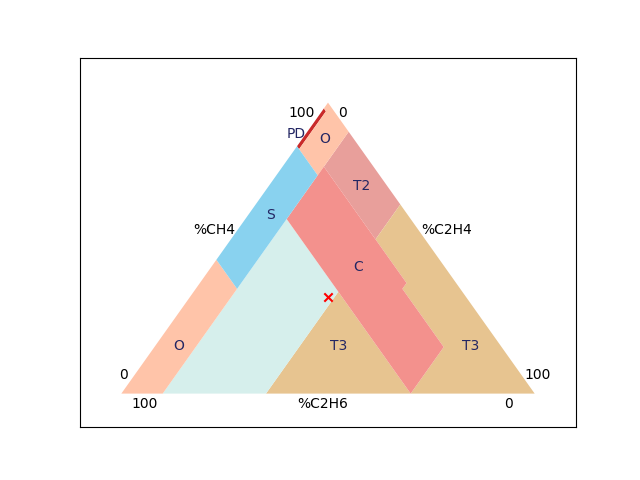
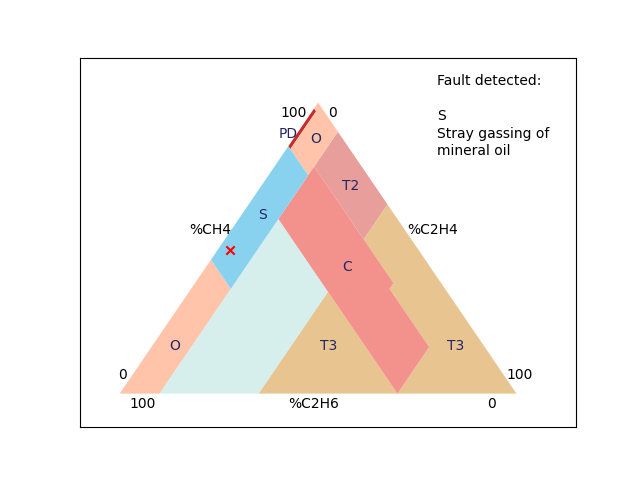
Rufaidah commit

diff --git a/website/views.py b/website/views.py
@@ -19,6 +19,7 @@ def home():
 # @views.route("/greet", methods=["POST", "GET"])
 # def greet():
 #    flash("Hi Rufaidah, great to see you!", category='info')
+#    flash("Hi Rufaidah, great to see you!", category='info')
 #    return render_template("home.html", user=current_user)
 
 
@@ -224,10 +225,63 @@ def dt1(ethylene, methane, acetylene):
     ax1.text(label13[0], label13[1], 'T1', color='#232663')
     label14 = np.array([35, 60, 1]) @ np.transpose(A)
     ax1.text(label14[0], label14[1], 'T2', color='#232663')
+    label15 = np.array([27, 106, 1]) @ np.transpose(A)
+    ax1.text(label15[0], label15[1], 'Fault detected: ', color='#000')
+    #
+    # Display fault by region
+    #
+    if x <= 2 and y >= 98:
+        label20 = np.array([33, 94, 1]) @ np.transpose(A)
+        ax1.text(label20[0], label20[1], 'PD', color='#000')
+        label21 = np.array([36, 88, 1]) @ np.transpose(A)
+        ax1.text(label21[0], label21[1], 'Partial discharges', color='#000')
+    elif x <= 20 and 76 <= y <= 98 and z <= 4:
+        label20 = np.array([33, 94, 1]) @ np.transpose(A)
+        ax1.text(label20[0], label20[1], 'T1', color='#000000')
+        label21 = np.array([36, 88, 1]) @ np.transpose(A)
+        ax1.text(label21[0], label21[1], 'Thermal fault', color='#000')
+        label22 = np.array([39, 82, 1]) @ np.transpose(A)
+        ax1.text(label22[0], label22[1], 't < 300°C', color='#000')
+    elif 20 <= x <= 50 and 46 <= y <= 80 and z <= 4:
+        label20 = np.array([33, 94, 1]) @ np.transpose(A)
+        ax1.text(label20[0], label20[1], 'T2', color='#000')
+        label21 = np.array([36, 88, 1]) @ np.transpose(A)
+        ax1.text(label21[0], label21[1], 'Thermal fault', color='#000')
+        label22 = np.array([39, 82, 1]) @ np.transpose(A)
+        ax1.text(label22[0], label22[1], '300°C < t < 700°C', color='#000')
+    elif x >= 50 and y <= 50 and z <= 15:
+        label20 = np.array([33, 94, 1]) @ np.transpose(A)
+        ax1.text(label20[0], label20[1], 'T3', color='#000000')
+        label21 = np.array([36, 88, 1]) @ np.transpose(A)
+        ax1.text(label21[0], label21[1], 'Thermal fault', color='#000000')
+        label22 = np.array([39, 82, 1]) @ np.transpose(A)
+        ax1.text(label22[0], label22[1], 't > 700°C', color='#000000')
+    elif x <= 23 and y <= 87 and z >= 13:
+        print('D1 fault detected!')
+        label20 = np.array([33, 94, 1]) @ np.transpose(A)
+        ax1.text(label20[0], label20[1], 'D1', color='#000000')
+        label21 = np.array([36, 88, 1]) @ np.transpose(A)
+        ax1.text(label21[0], label21[1], 'Discharges of low', color='#000000')
+        label22 = np.array([39, 82, 1]) @ np.transpose(A)
+        ax1.text(label22[0], label22[1], 'energy', color='#000000')
+    elif 23 <= x <= 40 and y <= 64 and z >= 13 or x >= 40 and y <= 31 and 29 <= z <= 60:
+        label20 = np.array([33, 94, 1]) @ np.transpose(A)
+        ax1.text(label20[0], label20[1], 'D2', color='#000000')
+        label21 = np.array([36, 88, 1]) @ np.transpose(A)
+        ax1.text(label21[0], label21[1], 'Discharges of high', color='#000000')
+        label22 = np.array([39, 82, 1]) @ np.transpose(A)
+        ax1.text(label22[0], label22[1], 'energy', color='#000000')
+    else:
+        label20 = np.array([33, 94, 1]) @ np.transpose(A)
+        ax1.text(label20[0], label20[1], 'DT', color='#000000')
+        label21 = np.array([36, 88, 1]) @ np.transpose(A)
+        ax1.text(label21[0], label21[1], 'Thermal fault', color='#000000')
+        label22 = np.array([39, 82, 1]) @ np.transpose(A)
+        ax1.text(label22[0], label22[1], 'and discharges', color='#000000')
     #
     # Show the final plot
     #
-    ax1.set_xlim(0, 600)
+    ax1.set_xlim(0, 625)
     ax1.set_ylim(0, 550)
     ax1.get_xaxis().set_visible(False)
     ax1.get_yaxis().set_visible(False)
@@ -326,10 +380,46 @@ def dt4(methane, hydrogen, ethane):
     ax1.text(label12[0], label12[1], '0', color='#232663')
     label13 = np.array([79, 3, 1]) @ np.transpose(A)
     ax1.text(label13[0], label13[1], 'C', color='#232663')
+    label14 = np.array([27, 106, 1]) @ np.transpose(A)
+    ax1.text(label14[0], label14[1], 'Fault detected: ', color='#000')
+    #
+    # Detect fault by region
+    #
+    if 2 <= x <= 15 and 84 <= y <= 98 and z <= 1:
+        label20 = np.array([33, 94, 1]) @ np.transpose(A)
+        ax1.text(label20[0], label20[1], 'PD', color='#000')
+        label21 = np.array([36, 88, 1]) @ np.transpose(A)
+        ax1.text(label21[0], label21[1], 'Partial discharges', color='#000')
+    elif x <= 70 and y <= 9 and z >= 30:
+        label20 = np.array([33, 94, 1]) @ np.transpose(A)
+        ax1.text(label20[0], label20[1], 'O', color='#000000')
+        label21 = np.array([36, 88, 1]) @ np.transpose(A)
+        ax1.text(label21[0], label21[1], 'Overheating', color='#000000')
+        label22 = np.array([39, 82, 1]) @ np.transpose(A)
+        ax1.text(label22[0], label22[1], 't < 250°C', color='#000000')
+    elif x <= 45 and 9 <= y <= 54 and z >= 46:
+        label20 = np.array([33, 94, 1]) @ np.transpose(A)
+        ax1.text(label20[0], label20[1], 'ND', color='#000000')
+        label21 = np.array([36, 88, 1]) @ np.transpose(A)
+        ax1.text(label21[0], label21[1], 'Not detected', color='#000000')
+    elif (x >= 36 and y <= 64 and z <= 24) or (x >= 55 and y <= 15 and 24 <= z <= 30):
+        label20 = np.array([33, 94, 1]) @ np.transpose(A)
+        ax1.text(label20[0], label20[1], 'C', color='#000000')
+        label21 = np.array([36, 88, 1]) @ np.transpose(A)
+        ax1.text(label21[0], label21[1], 'Paper carbonization', color='#000000')
+        label22 = np.array([39, 82, 1]) @ np.transpose(A)
+        ax1.text(label22[0], label22[1], 't > 300°C', color='#000000')
+    else:
+        label20 = np.array([33, 94, 1]) @ np.transpose(A)
+        ax1.text(label20[0], label20[1], 'S', color='#000000')
+        label21 = np.array([36, 88, 1]) @ np.transpose(A)
+        ax1.text(label21[0], label21[1], 'Stray gassing of', color='#000000')
+        label22 = np.array([39, 82, 1]) @ np.transpose(A)
+        ax1.text(label22[0], label22[1], 'mineral oil', color='#000000')
     #
     # Show the final plot
     #
-    ax1.set_xlim(0, 600)
+    ax1.set_xlim(0, 625)
     ax1.set_ylim(0, 550)
 
     ax1.get_xaxis().set_visible(False)
@@ -451,11 +541,60 @@ def dt5(ethylene, methane, ethane):
     ax1.text(label16[0], label16[1], 'T2', color='#232663')
     label17 = np.array([35, 42, 1]) @ np.transpose(A)
     ax1.text(label17[0], label17[1], 'C', color='#232663')
-
+    label18 = np.array([27, 106, 1]) @ np.transpose(A)
+    ax1.text(label18[0], label18[1], 'Fault detected: ', color='#000')
+    #
+    # Detect fault by region
+    #
+    if x <= 1 and 84 <= y <= 98 and 2 <= z <= 15:
+        label20 = np.array([33, 94, 1]) @ np.transpose(A)
+        ax1.text(label20[0], label20[1], 'PD', color='#000')
+        label21 = np.array([36, 88, 1]) @ np.transpose(A)
+        ax1.text(label21[0], label21[1], 'Partial discharges', color='#000')
+    elif x <= 10 and 36 <= y <= 85 and 15 <= z <= 54:
+        label20 = np.array([33, 94, 1]) @ np.transpose(A)
+        ax1.text(label20[0], label20[1], 'S', color='#000000')
+        label21 = np.array([36, 88, 1]) @ np.transpose(A)
+        ax1.text(label21[0], label21[1], 'Stray gassing of', color='#000000')
+        label22 = np.array([39, 82, 1]) @ np.transpose(A)
+        ax1.text(label22[0], label22[1], 'mineral oil', color='#000000')
+    elif x <= 10:
+        label20 = np.array([33, 94, 1]) @ np.transpose(A)
+        ax1.text(label20[0], label20[1], 'O', color='#000000')
+        label21 = np.array([36, 88, 1]) @ np.transpose(A)
+        ax1.text(label21[0], label21[1], 'Overheating', color='#000000')
+        label22 = np.array([39, 82, 1]) @ np.transpose(A)
+        ax1.text(label22[0], label22[1], 't < 250°C', color='#000000')
+    elif 10 <= x <= 35 and 53 <= y <= 90 and z <= 12:
+        label20 = np.array([33, 94, 1]) @ np.transpose(A)
+        ax1.text(label20[0], label20[1], 'T2', color='#000')
+        label21 = np.array([36, 88, 1]) @ np.transpose(A)
+        ax1.text(label21[0], label21[1], 'Thermal fault', color='#000')
+        label22 = np.array([39, 82, 1]) @ np.transpose(A)
+        ax1.text(label22[0], label22[1], '300°C < t < 700°C', color='#000')
+    elif 10 <= x <= 35 and y <= 60 and 30 <= z <= 90:
+        label20 = np.array([33, 94, 1]) @ np.transpose(A)
+        ax1.text(label20[0], label20[1], 'ND', color='#000000')
+        label21 = np.array([36, 88, 1]) @ np.transpose(A)
+        ax1.text(label21[0], label21[1], 'Not detected', color='#000000')
+    elif (10 <= x <= 50 and 20 <= y <= 78 and 12 <= z <= 30) or (50 <= x <= 70 and y <= 36 and 14 <= z <= 30):
+        label20 = np.array([33, 94, 1]) @ np.transpose(A)
+        ax1.text(label20[0], label20[1], 'C', color='#000000')
+        label21 = np.array([36, 88, 1]) @ np.transpose(A)
+        ax1.text(label21[0], label21[1], 'Paper carbonization', color='#000000')
+        label22 = np.array([39, 82, 1]) @ np.transpose(A)
+        ax1.text(label22[0], label22[1], 't > 300°C', color='#000000')
+    else:
+        label20 = np.array([33, 94, 1]) @ np.transpose(A)
+        ax1.text(label20[0], label20[1], 'T3', color='#000000')
+        label21 = np.array([36, 88, 1]) @ np.transpose(A)
+        ax1.text(label21[0], label21[1], 'Thermal fault', color='#000000')
+        label22 = np.array([39, 82, 1]) @ np.transpose(A)
+        ax1.text(label22[0], label22[1], 't > 700°C', color='#000000')
     #
     # Show the final plot
     #
-    ax1.set_xlim(0, 600)
+    ax1.set_xlim(0, 625)
     ax1.set_ylim(0, 550)
     ax1.get_xaxis().set_visible(False)
     ax1.get_yaxis().set_visible(False)
